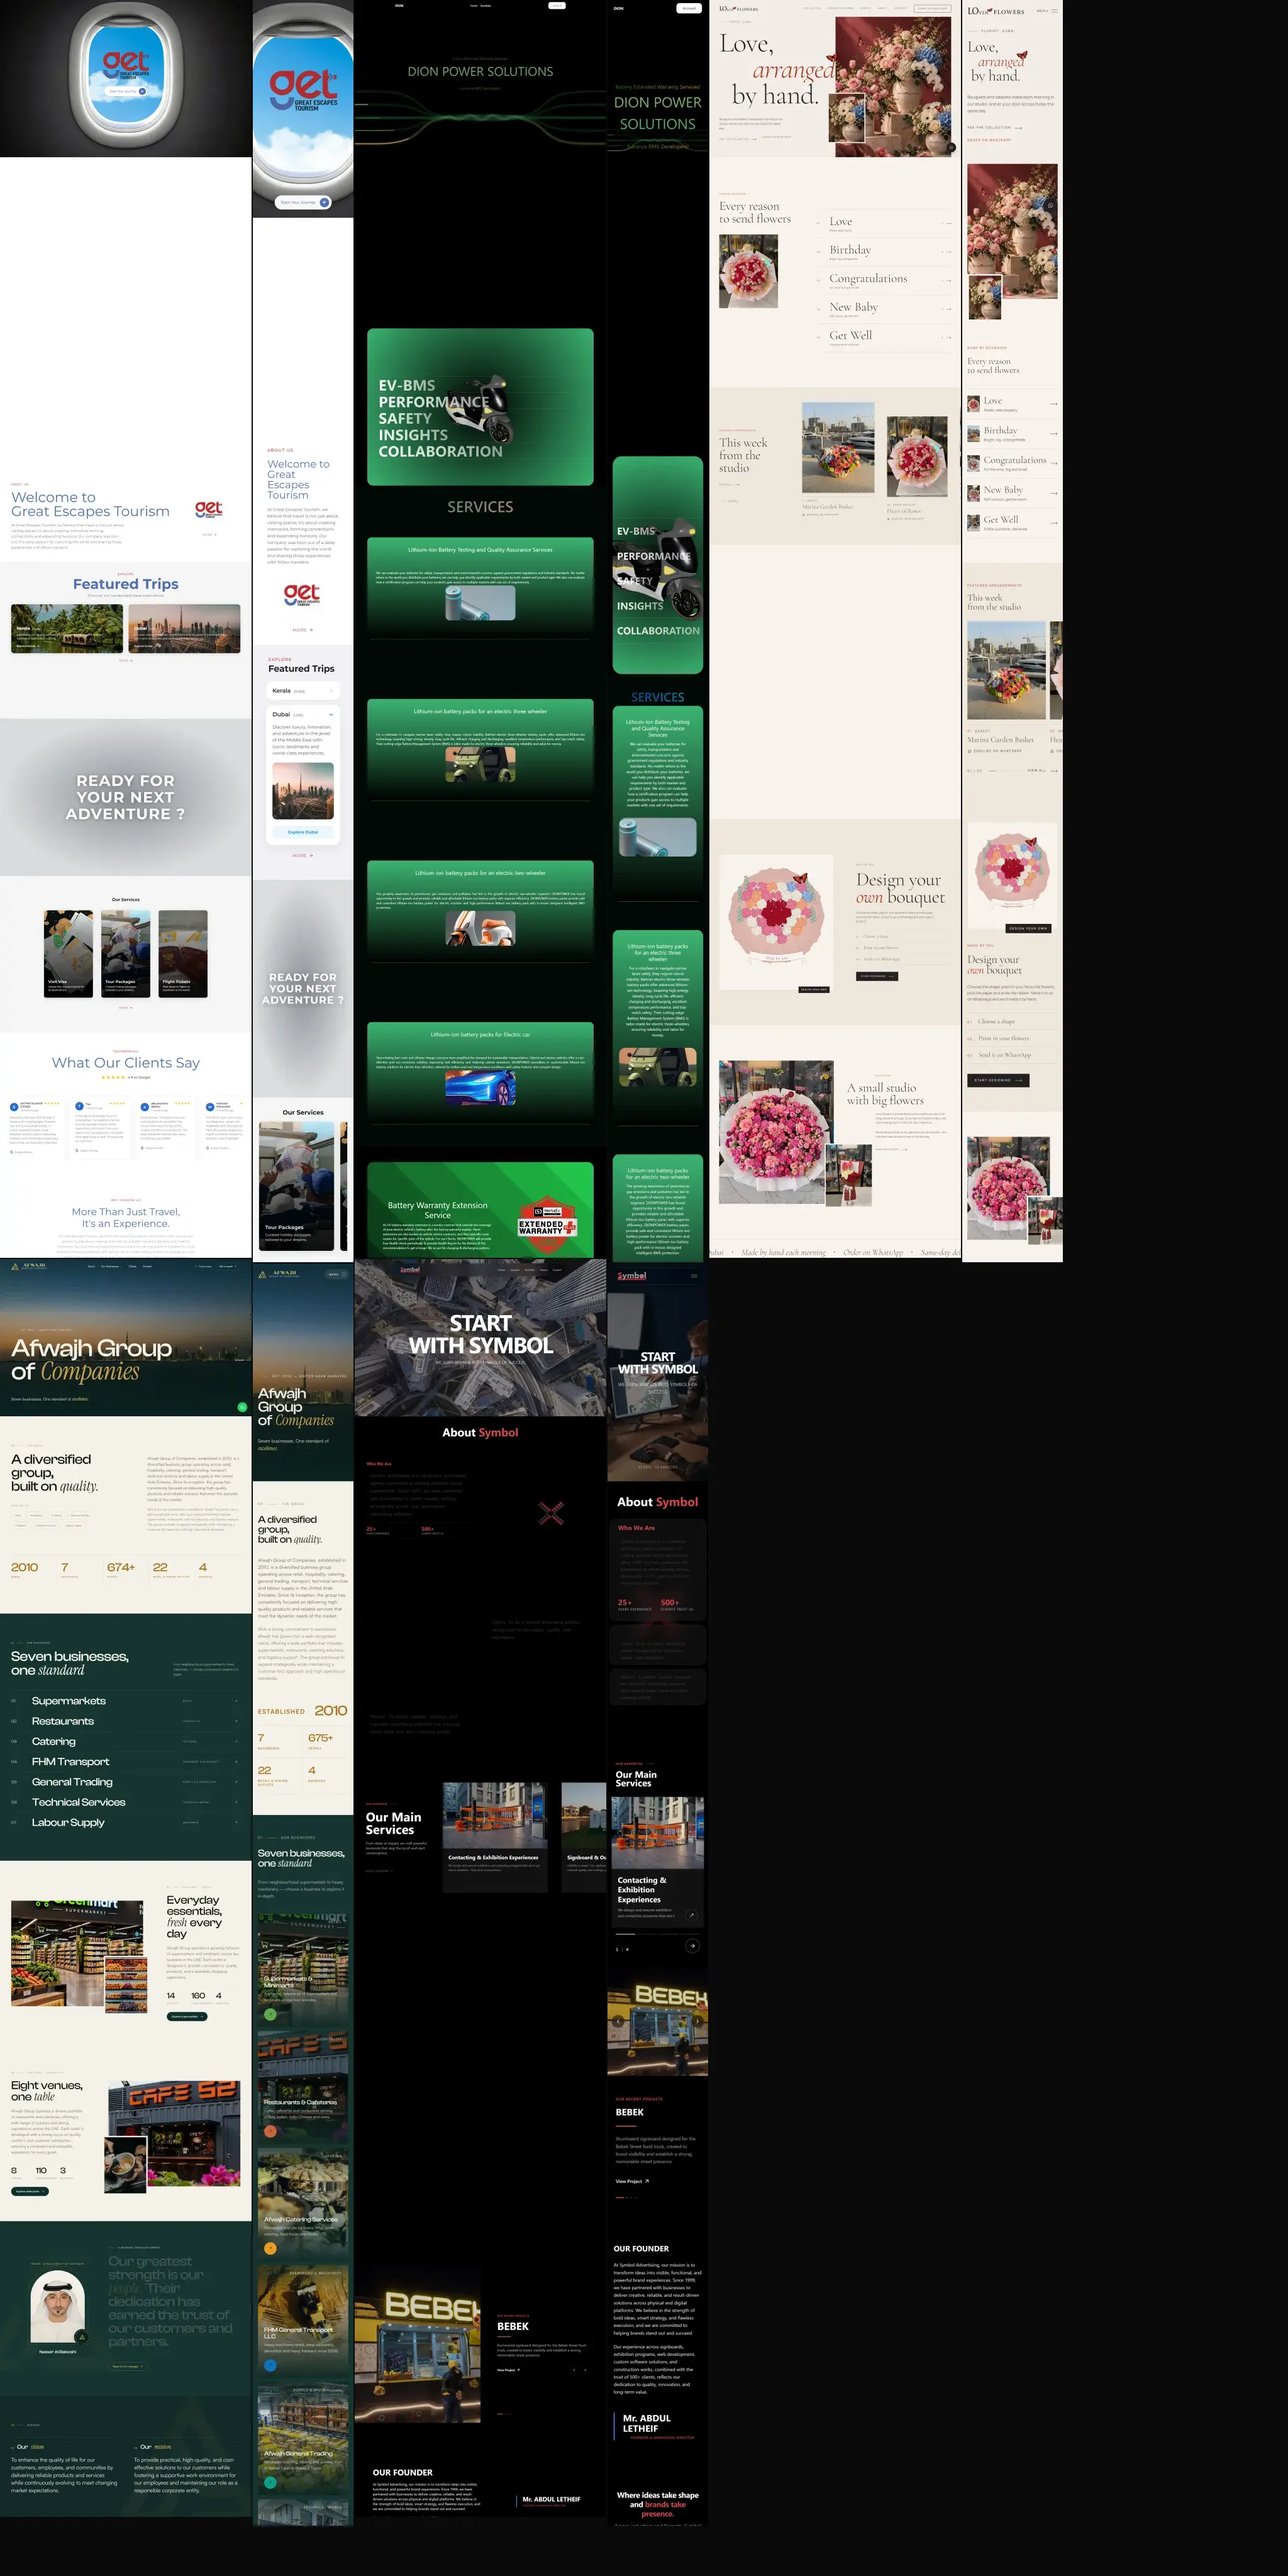
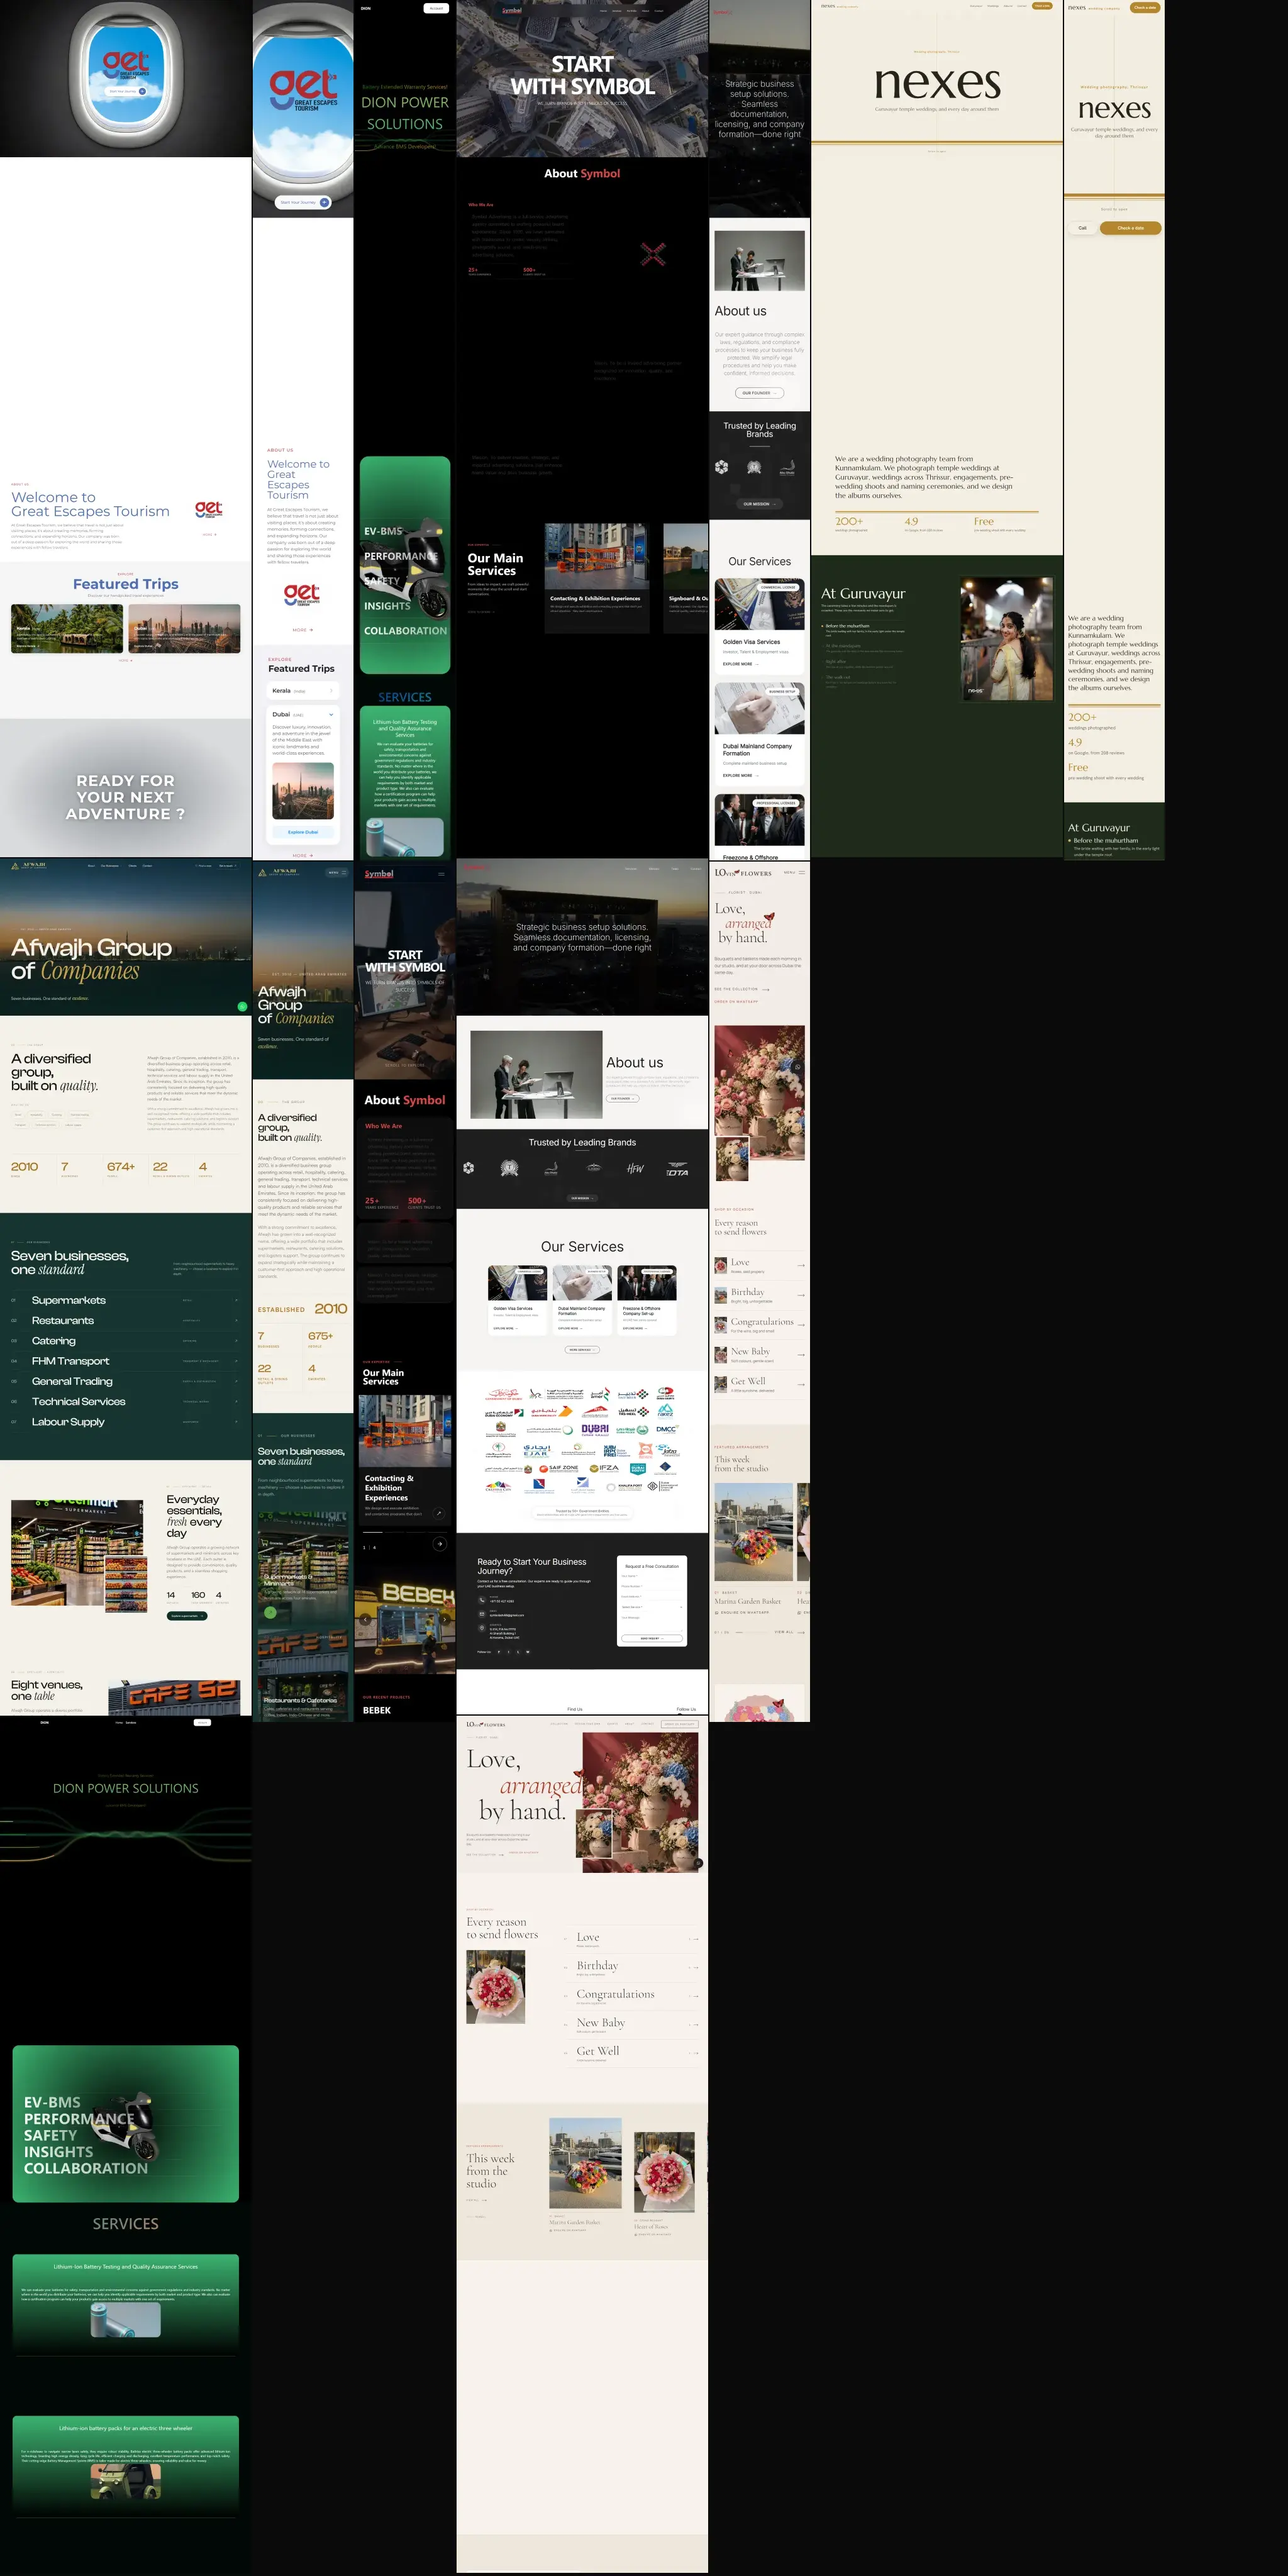
Add Symbol Business Setup, Nexes Wedding and Evam invoice generator
Three new projects with desktop and mobile screenshots, plus a rebuilt
texture atlas, mosaic and OG image.

Evam Invoice Generator is a private client tool, so it has no url:
the project panel hides "Visit site", cards link to their own anchor,
and the JSON-LD and llms.txt list it without a link. The FAQ answer
now names only the public websites and mentions the tool separately.

diff --git a/src/data/seo.js b/src/data/seo.js
@@ -11,7 +11,8 @@ export const DESCRIPTION =
   'Midhlaj is a website developer and designer in India building fast websites, online stores, web apps and iOS & Android apps for businesses worldwide.';
 
 const list = (items) => items.slice(0, -1).join(', ') + ' and ' + items[items.length - 1];
-const work = projects.map((p) => p.name);
+// public websites after the two apps (private client tools have no url and are described separately)
+const work = projects.slice(2).filter((p) => p.url).map((p) => p.name);
 
 export const faq = [
   {
@@ -24,7 +25,7 @@ export const faq = [
   },
   {
     q: 'What has Midhlaj built?',
-    a: `Projects include Linaul, a platform for trucking companies with a web dashboard, operator and driver apps and live GPS tracking; Nudge, an iOS focus timer and app blocker; and websites for ${list(work.slice(2))}.`,
+    a: `Projects include Linaul, a platform for trucking companies with a web dashboard, operator and driver apps and live GPS tracking; Nudge, an iOS focus timer and app blocker; an estimate and invoice generator for an event planning company; and websites for ${list(work)}.`,
   },
   {
     q: 'How much does a website cost?',
@@ -170,7 +171,7 @@ Midhlaj is a website developer and designer based in India who works with client
 ${site.services.map((s) => `- ${s}`).join('\n')}
 
 ## Work
-${projects.map((p) => `- [${p.name}](${p.url}) (${p.category}): ${p.description}`).join('\n')}
+${projects.map((p) => `- ${p.url ? `[${p.name}](${p.url})` : p.name} (${p.category}): ${p.description}`).join('\n')}
 
 ## FAQ
 ${faq.map(({ q, a }) => `### ${q}\n${a}`).join('\n\n')}

diff --git a/src/ui/content.js b/src/ui/content.js
@@ -52,7 +52,7 @@ export function renderContent(projects, { onCard }) {
     if (!p.featured) return;
     const cover = (p.screenshots || []).find((f) => f.startsWith('desktop')) || p.screenshots?.[0];
     const a = el('a', 'card');
-    a.href = p.url;
+    a.href = p.url || `#work-${p.id}`;
     a.dataset.cursor = 'Fly in';
     a.setAttribute('aria-label', `${p.name} — open in the fly-through`);
     const media = el('div', 'card__media');
@@ -88,7 +88,7 @@ export function renderContent(projects, { onCard }) {
   projects.forEach((p, i) => {
     const cover = (p.screenshots || []).find((f) => f.startsWith('desktop'));
     const a = el('a', 'card');
-    a.href = p.url;
+    a.href = p.url || `#work-${p.id}`;
     a.id = `work-${p.id}`;
     const media = el('div', 'card__media');
     if (cover) {

diff --git a/src/ui/panels.js b/src/ui/panels.js
@@ -73,7 +73,10 @@ export function fillProjectPanel(projects, index, onNext) {
     $('pp-tech').appendChild(li);
   });
   const visit = $('pp-visit');
-  visit.href = p.url;
+  // private client tools have no public link: no button at all
+  visit.hidden = !p.url;
+  if (p.url) visit.href = p.url;
+  else visit.removeAttribute('href');
   const store = /apps\.apple\.com/.test(p.url) ? 'App Store' : /play\.google\.com/.test(p.url) ? 'Google Play' : '';
   visit.textContent = store ? `View on ${store} ↗` : 'Visit site ↗';
   visit.setAttribute('aria-label', `${store ? `View ${p.name} on ${store}` : `Visit ${p.name}`} (opens in a new tab)`);
